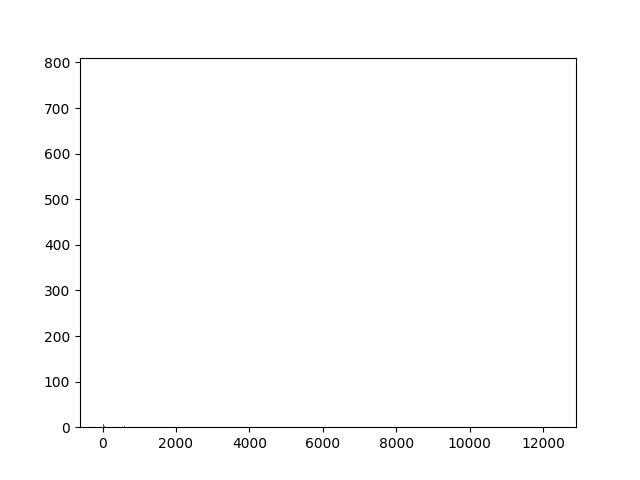
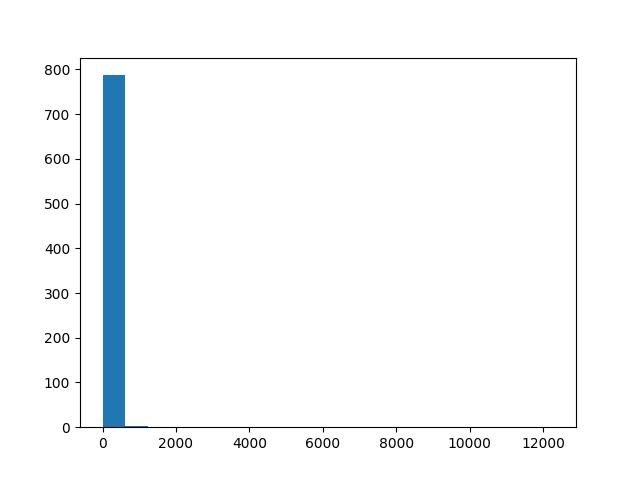
chart

diff --git a/ProposedApproach/MyApproach/NormalizeDataset.py b/ProposedApproach/MyApproach/NormalizeDataset.py
@@ -112,7 +112,7 @@ class Normalizer:
                 sd_pairs[sd] = 1
         print(sum(sd_pairs.values())/len(sd_pairs))
         vals = list(sd_pairs.values())
-        plt.hist(vals, bins=500)
+        plt.hist(vals, bins=20)
         plt.savefig('hist.jpg')
             #sd_pairs.append(sd)
         #print(Counter(sd_pairs))
